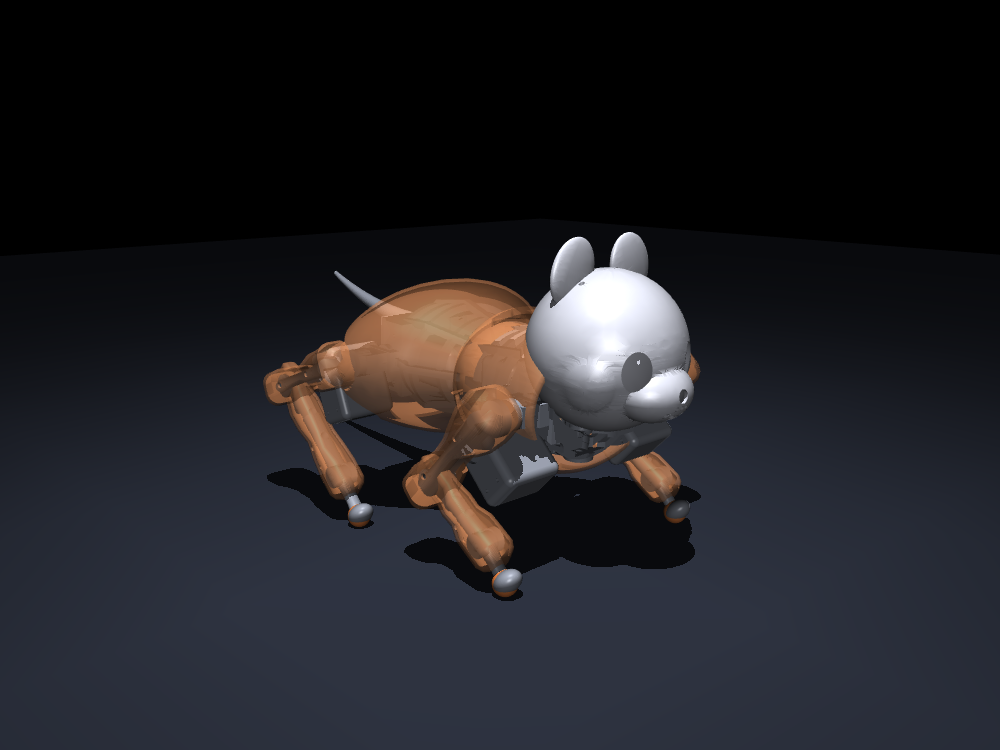
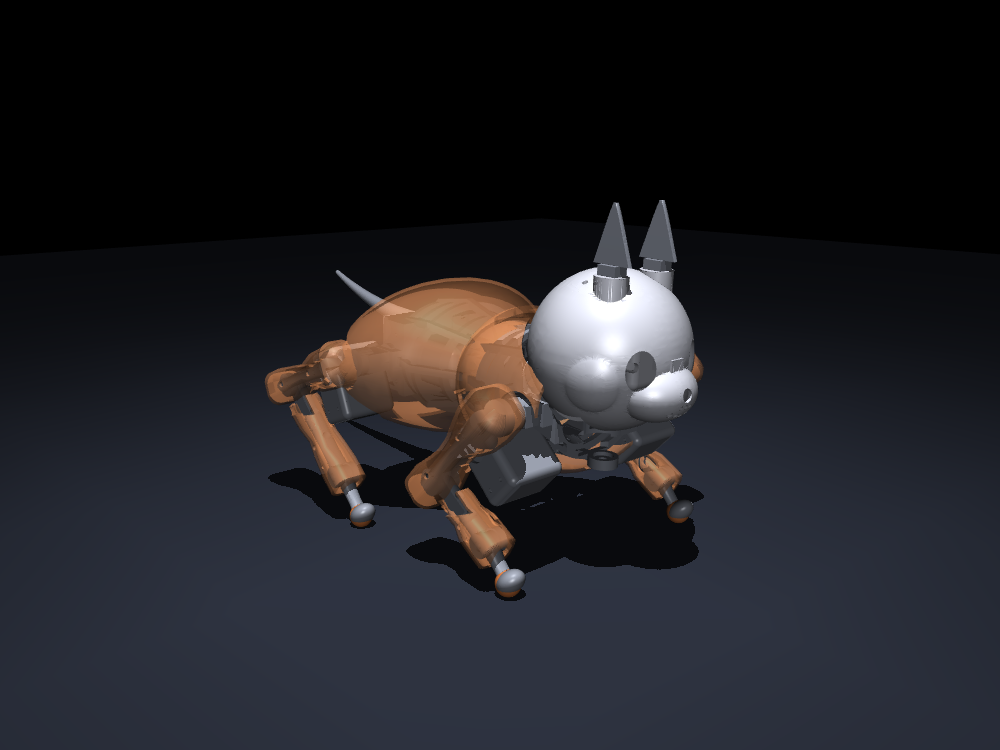
docs: bring the docs and images up to the audited robot
- Re-render the README images and walk.gif: one head, yawing about its
  own centre, and the rear knee's own four-bar.
- assembly.md: the yaw axis runs through the head centre now; no head
  shell (the head is its own printed skin).
- build_mvp.md: per-end crank windows; no head shell.
- README / platform.md: envelope 342 x 201 x 193 mm, knee ROM 128 front /
  131 rear with a linkage per end, fold limits 123 / 121.
- hardware_bom.md regenerated: 80 M2 inserts, not 64. The limb fairing
  mounts (2 in each thigh, 2 in each shank) were never counted into it.

diff --git a/docs/assembly.md b/docs/assembly.md
@@ -146,10 +146,12 @@ further up, and the only cavity there is the chest.
 
 Two placement consequences worth knowing before changing anything:
 
-- The **yaw axis is 18 mm behind the head's centre** (`HEAD_GIMBAL_STACK`). It has to be:
-  the head ball leaves 2 mm under it at its own centre and 15 mm at 18 mm back, and the
-  pan linkage needs a horizontal plane to run in. The head itself does not move — only the
-  axis — which gives it a slight sideways shift as it turns, the way a real neck does.
+- The **yaw axis runs through the head's centre** (`HEAD_GIMBAL_STACK = 0`), so the head
+  turns in place. It used to sit 18 mm behind; the head then orbited as it turned and hit
+  the ribcage from 10° of yaw (1871 mm³ at the worst commanded pose). The pan servo moved
+  forward with the axis (`PAN_SERVO` x = 49), so the ground — and the linkage below — is
+  unchanged. The chest is cut by the head at 7 × 5 yaw/pitch poses, each 3 % oversize to
+  cover the travel between samples.
 - The **head sits 8 mm above the shoulder line** (`HEAD_RISE`), which is what finally gave
   the pan rocker room to pass under the ball.
 - The **crank is deliberately small** (17 mm). A longer one reaches the same range with a
@@ -291,7 +293,8 @@ waist (9) → head pan/pitch (10–11) → tail (12). LED eyes are
 7. **Electronics.** Seat the Jetson in the fore back-bay, battery in the aft belly
    bay, bus adapter + speaker in the aft. Route + daisy-chain the bus (§4), plug
    the head sensor loom down the neck.
-8. **Skin.** Fit the `shell` halves + head shell over the frame last, then bolt the
+8. **Skin.** Fit the `shell` halves over the frame last (the head is its own printed
+   skin — it seats in the chest skin's socket and needs no shell), then bolt the
    four limb fairings on: 2× M2 each into the inserts in the thigh and the shank
    (the shank's pair sits below the knee blade). Check the fairings swing clear of
    the body through a full hip sweep before the screws go in — they are cut to the

diff --git a/docs/platform.md b/docs/platform.md
@@ -42,15 +42,18 @@ niceties.
 | **Actuator** | Feetech STS3215 ×12 — 2.94 N·m stall, 60 g, TTL serial daisy-chain, **backdrivable** |
 | **Compute** | Jetson Orin Nano Super (8 GB), 67 TOPS, 7–25 W (15 W default) |
 | **Sensors** | stereo CSI eyes, BNO085 IMU, 2× VL53L1X ToF, 2× I²S mic, BME688 e-nose, I²S speaker |
-| **Envelope** | 352 × 201 × 197 mm (posed) |
+| **Envelope** | 342 × 201 × 193 mm (posed) |
 | **Legs** | front 67.5 / 52.0 / 26.0 mm, rear 64.0 / 80.5 / 31.5 mm (digitigrade, cat-anatomical) |
 | **Fabrication** | fully 3D-printed frame + skin (PLA/PETG), 31 distinct parts, 88 heat-set inserts (80× M2 + 8× M3), clevis pivots on Ø3 pins; head + torso split for print |
 
 ## Mechanism (design contribution)
 
-- **Four-bar knee** (`analysis/fourbar.py`, `P.FOURBAR`): knee ROM **128° (2.24 rad)**,
-  transmission angle **41–140°** (singularity-free), monotonic/invertible. Per-leg
-  reachable knee: front 23.7–152.3°, rear 35.4–164.0° (cat-correct fore < hind fold).
+- **Four-bar knee** (`analysis/fourbar.py`, `P.fourbar(leg)`): each end has its own
+  linkage — front `P.FOURBAR` (ground 38), rear `P.FOURBAR_REAR` (ground 36.5, coupler
+  48.5, so the rear knee servo clears the hip bracket's screw). Knee ROM **128° front /
+  131° rear**, transmission angle **41–140°** (singularity-free), monotonic/invertible.
+  Per-leg reachable knee: front 23.7–152.3°, rear 33.8–164.6° (cat-correct fore < hind
+  fold); the gaits are capped at the fold limit, 123° front / 121° rear.
   Verified as a closed loop in MuJoCo (held to 0.16 mm) and as CAD parts on the leg.
 - **Remote-axle hip**: hip servos relocated to the torso core, driven to the pivot by
   a Ø6 axle in bearings → per-hip lateral inertia **16.46 → 1.16 ×10⁻⁴ kg·m² (−93%)**.

diff --git a/README.md b/README.md
@@ -75,9 +75,9 @@ All derived from the model — regenerate with `python -m analysis.platform_repo
 | DOF | **12 actuated** — 2 motors/leg (hip+knee) + coupled ankle + rigid abduction; 4 expressive (waist, head pan/pitch, tail). The head holds two servo housings, so the ears are rigid and camera **roll** is corrected electronically instead of by a third gimbal axis |
 | Actuator | Feetech STS3215 ×12 — 2.94 N·m stall, 60 g, TTL serial, **backdrivable** |
 | Compute | Jetson Orin Nano Super (8 GB), 67 TOPS, 7–25 W |
-| Four-bar knee | 128° ROM, 41–140° transmission angle (singularity-free) |
+| Four-bar knee | 128° ROM front / 131° rear — each end has its own linkage — 41–140° transmission angle (singularity-free) |
 | Remote-axle hip | **−93 %** lateral inertia of the **hip** servos (−46 % counting all 8 leg servos — the knee servos stay on the thighs) |
-| Envelope | 352 × 201 × 197 mm |
+| Envelope | 342 × 201 × 193 mm |
 | Viable scale range | **k ≈ 0.7–1.5** (body 126–270 mm) — the fixed actuator sets the window |
 
 Gait benchmark (MuJoCo):
@@ -107,7 +107,7 @@ The ribcage, the channel thighs and the four-bar inside them read through the tr
 <p align="center">
   <img src="docs/img/fourbar.png" alt="Four-bar knee kinematics" width="90%" />
 </p>
-<p align="center"><em>Proximal four-bar knee — 129° ROM, monotonic and invertible, with the
+<p align="center"><em>Proximal four-bar knee — 128° ROM (front), monotonic and invertible, with the
 transmission angle held inside 40–140° (no singularity/lock-up). The same tool sizes the
 tail and head-yaw drives, which are four-bars for the same reason: no room for a servo on
 the joint itself.</em></p>

diff --git a/docs/hardware_bom.md b/docs/hardware_bom.md
@@ -9,8 +9,8 @@ Actuator: **feetech_sts3215** x12.
 
 | Part | Qty | Unit $ | Ext $ | Order as | Where it goes |
 |---|--:|--:|--:|---|---|
-| Heat-set insert M2 x 4.0 mm (Dia3.2 melt hole) | 64 | 0.08-0.18 | 5.12-11.52 | M2 insert pack (50-100) | melt-in brass; every threaded joint in the printed frame |
-| Socket-head screw M2 x 8 mm, stainless | 64 | 0.04-0.09 | 2.56-5.76 | M2 screw assortment | one per M2 insert |
+| Heat-set insert M2 x 4.0 mm (Dia3.2 melt hole) | 80 | 0.08-0.18 | 6.40-14.40 | M2 insert pack (50-100) | melt-in brass; every threaded joint in the printed frame |
+| Socket-head screw M2 x 8 mm, stainless | 80 | 0.04-0.09 | 3.20-7.20 | M2 screw assortment | one per M2 insert |
 | Heat-set insert M3 x 5.7 mm (Dia4.1 melt hole) | 8 | 0.10-0.22 | 0.80-1.76 | M3 insert pack (50-100) | melt-in brass; every threaded joint in the printed frame |
 | Socket-head screw M3 x 10 mm, stainless | 8 | 0.05-0.10 | 0.40-0.80 | M3 screw assortment | one per M3 insert |
 | Socket-head screw M2 x 10 mm, stainless (servo case) | 48 | 0.04-0.09 | 1.92-4.32 | M2 screw assortment | through the printed boss into the STS3215 own tapped flange, 4 per servo, no insert |
@@ -27,7 +27,7 @@ Actuator: **feetech_sts3215** x12.
 | Shaft Dia6 h6 x 30 mm, hardened steel or CF rod | 4 | 1.50-3.50 | 6.00-14.00 | Dia6 rod, cut to length | hip drive axle: core servo horn out to the thigh inboard cheek |
 | Dowel rod Dia4 x 12 mm | 9 | 0.15-0.35 | 1.35-3.15 | Dia4 rod, cut to length | print-split alignment (torso halves + head); press one side, slip the other |
 
-**Joint + fastener hardware total: $38-$83 per robot.**
+**Joint + fastener hardware total: $40-$87 per robot.**
 
 Notes
 -----

diff --git a/docs/build_mvp.md b/docs/build_mvp.md
@@ -173,11 +173,12 @@ From `docs/assembly.md §5`. Fasteners per joint called out inline.
    (M2 case screws); bolt `crank` onto its horn (4× M2 + centre). Pin the passive
    **knee** (`upper`↔`lower`, Ø3 + e-clip), link the **pushrod** crank→rocker
    (2× Ø3 + e-clips), pin the **ankle** (`lower`↔`foot`, Ø3 + e-clip). Confirm the
-   four-bar sweeps its crank window (−20…81°) without binding. → **4 Ø3 pins/leg**.
+   four-bar sweeps its crank window (front −20…81°, rear −21…82°) without binding. → **4 Ø3 pins/leg**.
 8. **Head gimbal:** assemble pan→pitch→tilt (servos 10/11/12); bolt head stub to the
    tilt bracket (4× M2 into neck-stub inserts). Bolt ears + tail onto their horns
    (ear 2× M2 ea; tail 4× M2).
-9. **Skin:** clip the cosmetic `shell` halves + head shell over the finished frame.
+9. **Skin:** clip the cosmetic `shell` halves over the finished frame (the head is its
+   own printed skin; no head shell).
 10. **Electronics bay:** Jetson in the fore back-bay (airflow), 3S LiPo in the aft
     belly bay, bus adapter + speaker in the aft. Daisy-chain the STS3215 bus
     (order: legs 1–8 → waist 9 → head 10–12 → ear 13 → tail 14), route the head
